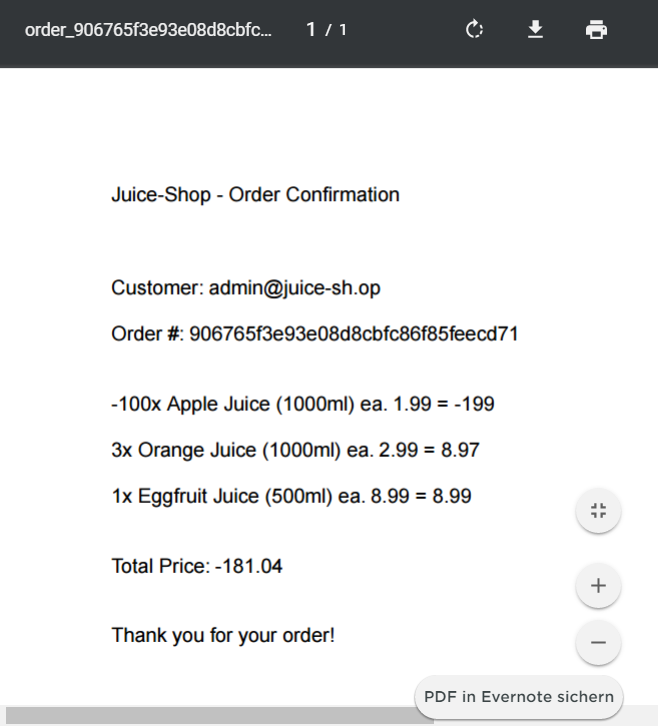
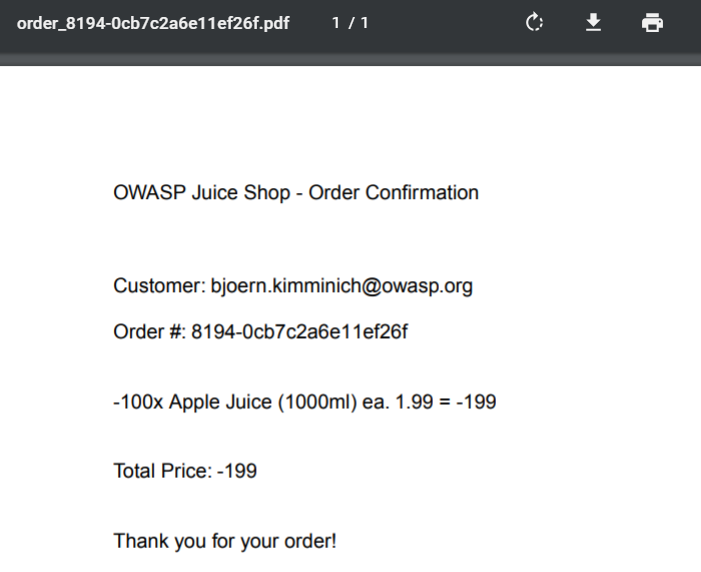
Update "Negative Order" challenge for v8.x

diff --git a/appendix/solutions.md b/appendix/solutions.md
@@ -126,7 +126,7 @@ error situation and solve this challenge along the way:
    ![XSS alert box](img/xss1_alert.png)
 
 ### Give a devastating zero-star feedback to the store
-
+                         Place an order that makes you rich
 1. Visit the _Contact Us_ form and put in a _Comment_ text. Also solve the CAPTCHA at the bottom of the form.
 2. The _Submit_ button is still **disabled** because you did not select a
    _Rating_ yet.
@@ -363,16 +363,17 @@ injection as in
   the user data as described in
   [Retrieve a list of all user credentials via SQL Injection](#retrieve-a-list-of-all-user-credentials-via-sql-injection).
 
-### :warning: Place an order that makes you rich
+### Place an order that makes you rich
 
 1. Log in as any user.
 2. Put at least one item into your shopping basket.
 3. Note that reducing the quantity of a basket item below 1 is not
-   possible via the UI, so you will need to attack the RESTful API
-   directly instead.
-4. Copy your `Authorization` header from any HTTP request submitted via
+   possible via the UI
+4. When changing the quantity via the UI, you will notice `PUT` requests to <http://localhost:3000/api/BasketItems/{id}> in the Network tab of your DevTools
+5. Memorize the `{id}` of any item in your basket
+6. Copy your `Authorization` header from any HTTP request submitted via
    browser.
-5. Submit a `PUT` request to <http://localhost:3000/api/BasketItems/1>
+7. Submit a `PUT` request to <http://localhost:3000/api/BasketItems/{id}> replacing `{id}` with the memorized number from 5. and
    with:
    * `{"quantity": -100}` as body,
    * `application/json` as `Content-Type`
@@ -380,9 +381,11 @@ injection as in
      the token you copied from the browser.
 
    ![Negative quantity request body in PostMan](img/negative_order_postman-body.png)
-6. Visit <http://localhost:3000/#/basket> to view _Your Basket_ with the
+8. Visit <http://localhost:3000/#/basket> to view _Your Basket_ with the
    negative quantity on the first item
-7. Click _Checkout_ to issue the order and solve this challenge.
+
+   ![Basket with negative item quantity](img/negative_order-basket.png)
+9. Click _Checkout_ to issue the negative order and solve this challenge.
 
    ![Order confirmation with negative total](img/negative_order_pdf.pdf.png)
 
